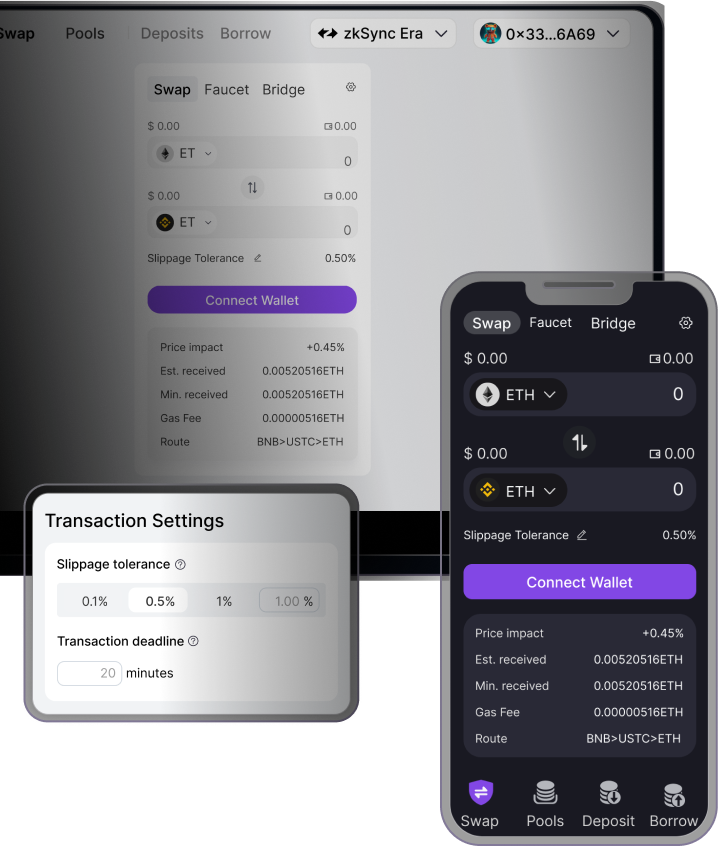
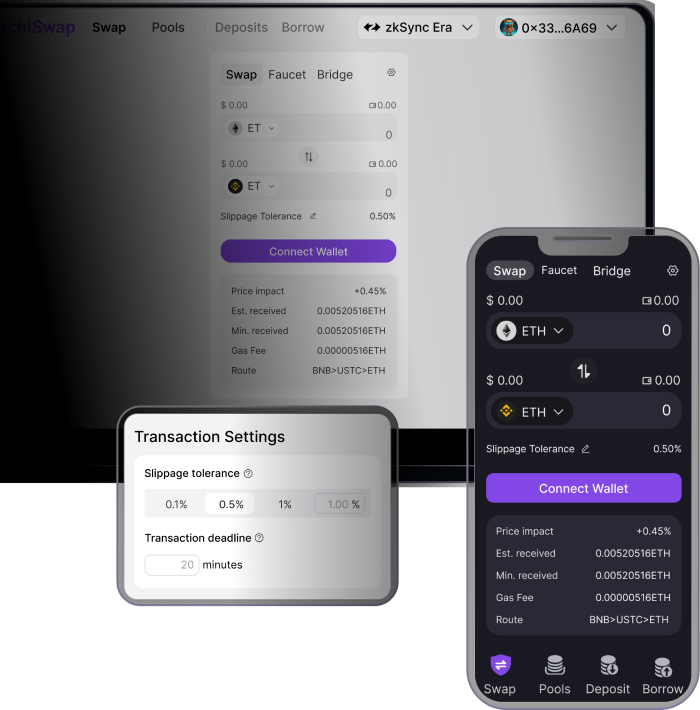
update: ui

diff --git a/src/app/page.module.css b/src/app/page.module.css
@@ -20,15 +20,15 @@
 	}
 
 	.header_button {
-		width: 0.96rem;
-		height: 0.38rem;
+		width: 0.83rem;
+		height: 0.28rem;
 		background-color: rgba(130, 71, 229, 1);
 		border-radius: 6px;
 		display: flex;
 		align-items: center;
 		justify-content: center;
 		color: #fff;
-		font-size: 0.16rem;
+		font-size: 0.14rem;
 		cursor: pointer;
 	}
 
@@ -36,6 +36,7 @@
 		margin: 0 auto;
 		display: flex;
 		justify-content: space-between;
+		align-items: center;
 		padding-left: 0.16rem;
 		padding-right: 0.16rem;
 		margin-top: 10px;
@@ -49,8 +50,8 @@
 		display: flex;
 		align-items: center;
 		justify-content: center;
-		margin-top: 46px;
-		padding-bottom: 1.72rem;
+		margin-top: 16px;
+		padding-bottom: 1.38rem;
 	}
 	.center_content {
 		/* padding-left: 24px;
@@ -64,18 +65,24 @@
 		width: 2.8rem;
 		font-size: 0.24rem;
 		font-family: Inter;
-		font-weight: 900;
-		line-height: 0.5rem;
+		font-weight: 800;
+		line-height: 0.4rem;
 		top: 50px;
-		background: linear-gradient(269.48deg, #ffffff 15.12%, #ac7bff 84.76%);
+		color: #fff;
+		/* background: linear-gradient(269.48deg, #ffffff 15.12%, #ac7bff 84.76%); */
+		background-image: linear-gradient(
+			269.48deg,
+			#ffffff 15.12%,
+			#ac7bff 84.76%
+		);
 		-webkit-background-clip: text;
 		-webkit-text-fill-color: transparent;
 		background-clip: text;
 	}
 	.picture_show {
-		margin-top: 0.16rem;
-		width: 3.59rem;
-		height: 4.24rem;
+		margin-top: 0.14rem;
+		width: 3.61rem;
+		height: 3.66rem;
 		background-image: url(../assets/app/phone_display.png);
 		background-size: cover;
 	}
@@ -89,7 +96,7 @@
 		height: 0.51rem;
 		background-image: url(../assets/svg/phone_button.svg);
 		background-size: cover;
-		top: 5.9rem;
+		top: 4.82rem;
 		position: absolute;
 		display: flex;
 		justify-content: center;
@@ -219,6 +226,7 @@
 		display: flex;
 		max-width: 1520px;
 		justify-content: space-between;
+		align-items: center;
 		padding-left: 24px;
 		padding-right: 24px;
 		/* position: sticky;
@@ -278,7 +286,12 @@
 		line-height: 60px;
 		position: absolute;
 		top: 50px;
-		background: linear-gradient(269.48deg, #ffffff 15.12%, #ac7bff 84.76%);
+		/* background: linear-gradient(269.48deg, #ffffff 15.12%, #ac7bff 84.76%); */
+		background-image: linear-gradient(
+			269.48deg,
+			#ffffff 15.12%,
+			#ac7bff 84.76%
+		);
 		-webkit-background-clip: text;
 		-webkit-text-fill-color: transparent;
 		background-clip: text;
@@ -395,7 +408,12 @@
 		line-height: 60px;
 		position: absolute;
 		top: 50px;
-		background: linear-gradient(269.48deg, #ffffff 15.12%, #ac7bff 84.76%);
+		/* background: linear-gradient(269.48deg, #ffffff 15.12%, #ac7bff 84.76%); */
+		background-image: linear-gradient(
+			269.48deg,
+			#ffffff 15.12%,
+			#ac7bff 84.76%
+		);
 		-webkit-background-clip: text;
 		-webkit-text-fill-color: transparent;
 		background-clip: text;
@@ -436,7 +454,12 @@
 		line-height: 80px;
 		position: absolute;
 		top: 70px;
-		background: linear-gradient(269.48deg, #ffffff 15.12%, #ac7bff 84.76%);
+		/* background: linear-gradient(269.48deg, #ffffff 15.12%, #ac7bff 84.76%); */
+		background-image: linear-gradient(
+			269.48deg,
+			#ffffff 15.12%,
+			#ac7bff 84.76%
+		);
 		-webkit-background-clip: text;
 		-webkit-text-fill-color: transparent;
 		background-clip: text;

diff --git a/src/app/layout.tsx b/src/app/layout.tsx
@@ -4,8 +4,8 @@ import { Inter } from 'next/font/google'
 const inter = Inter({ subsets: ['latin'] })
 
 export const metadata = {
-	title: 'Dex',
-	description: 'Generated by create next app',
+	title: 'ArchiSwap',
+	// description: 'Generated by create next app',
 }
 
 export default function RootLayout({
@@ -15,6 +15,14 @@ export default function RootLayout({
 }) {
 	return (
 		<html lang="en">
+			<head>
+				<meta name="theme-color" content="rgba(10, 1, 24, 0.10)" />
+				<meta
+					name="msapplication-navbutton-color"
+					content="rgba(10, 1, 24, 0.10)"
+				/>
+				<meta name="apple-mobile-web-app-capable" content="yes" />
+			</head>
 			<body className={inter.className}>{children}</body>
 		</html>
 	)

diff --git a/src/app/page.tsx b/src/app/page.tsx
@@ -29,7 +29,7 @@ export default function Home() {
 						<div
 							className={styles.header_button}
 							onClick={() => {
-								turnPage('https://app.archiswap.io/#/swap')
+								openPage('https://app.archiswap.io/#/swap')
 							}}
 						>
 							Enter App
@@ -44,7 +44,7 @@ export default function Home() {
 								<div
 									className={styles.center_left_button}
 									onClick={() => {
-										turnPage(
+										openPage(
 											'https://app.archiswap.io/#/swap'
 										)
 									}}
